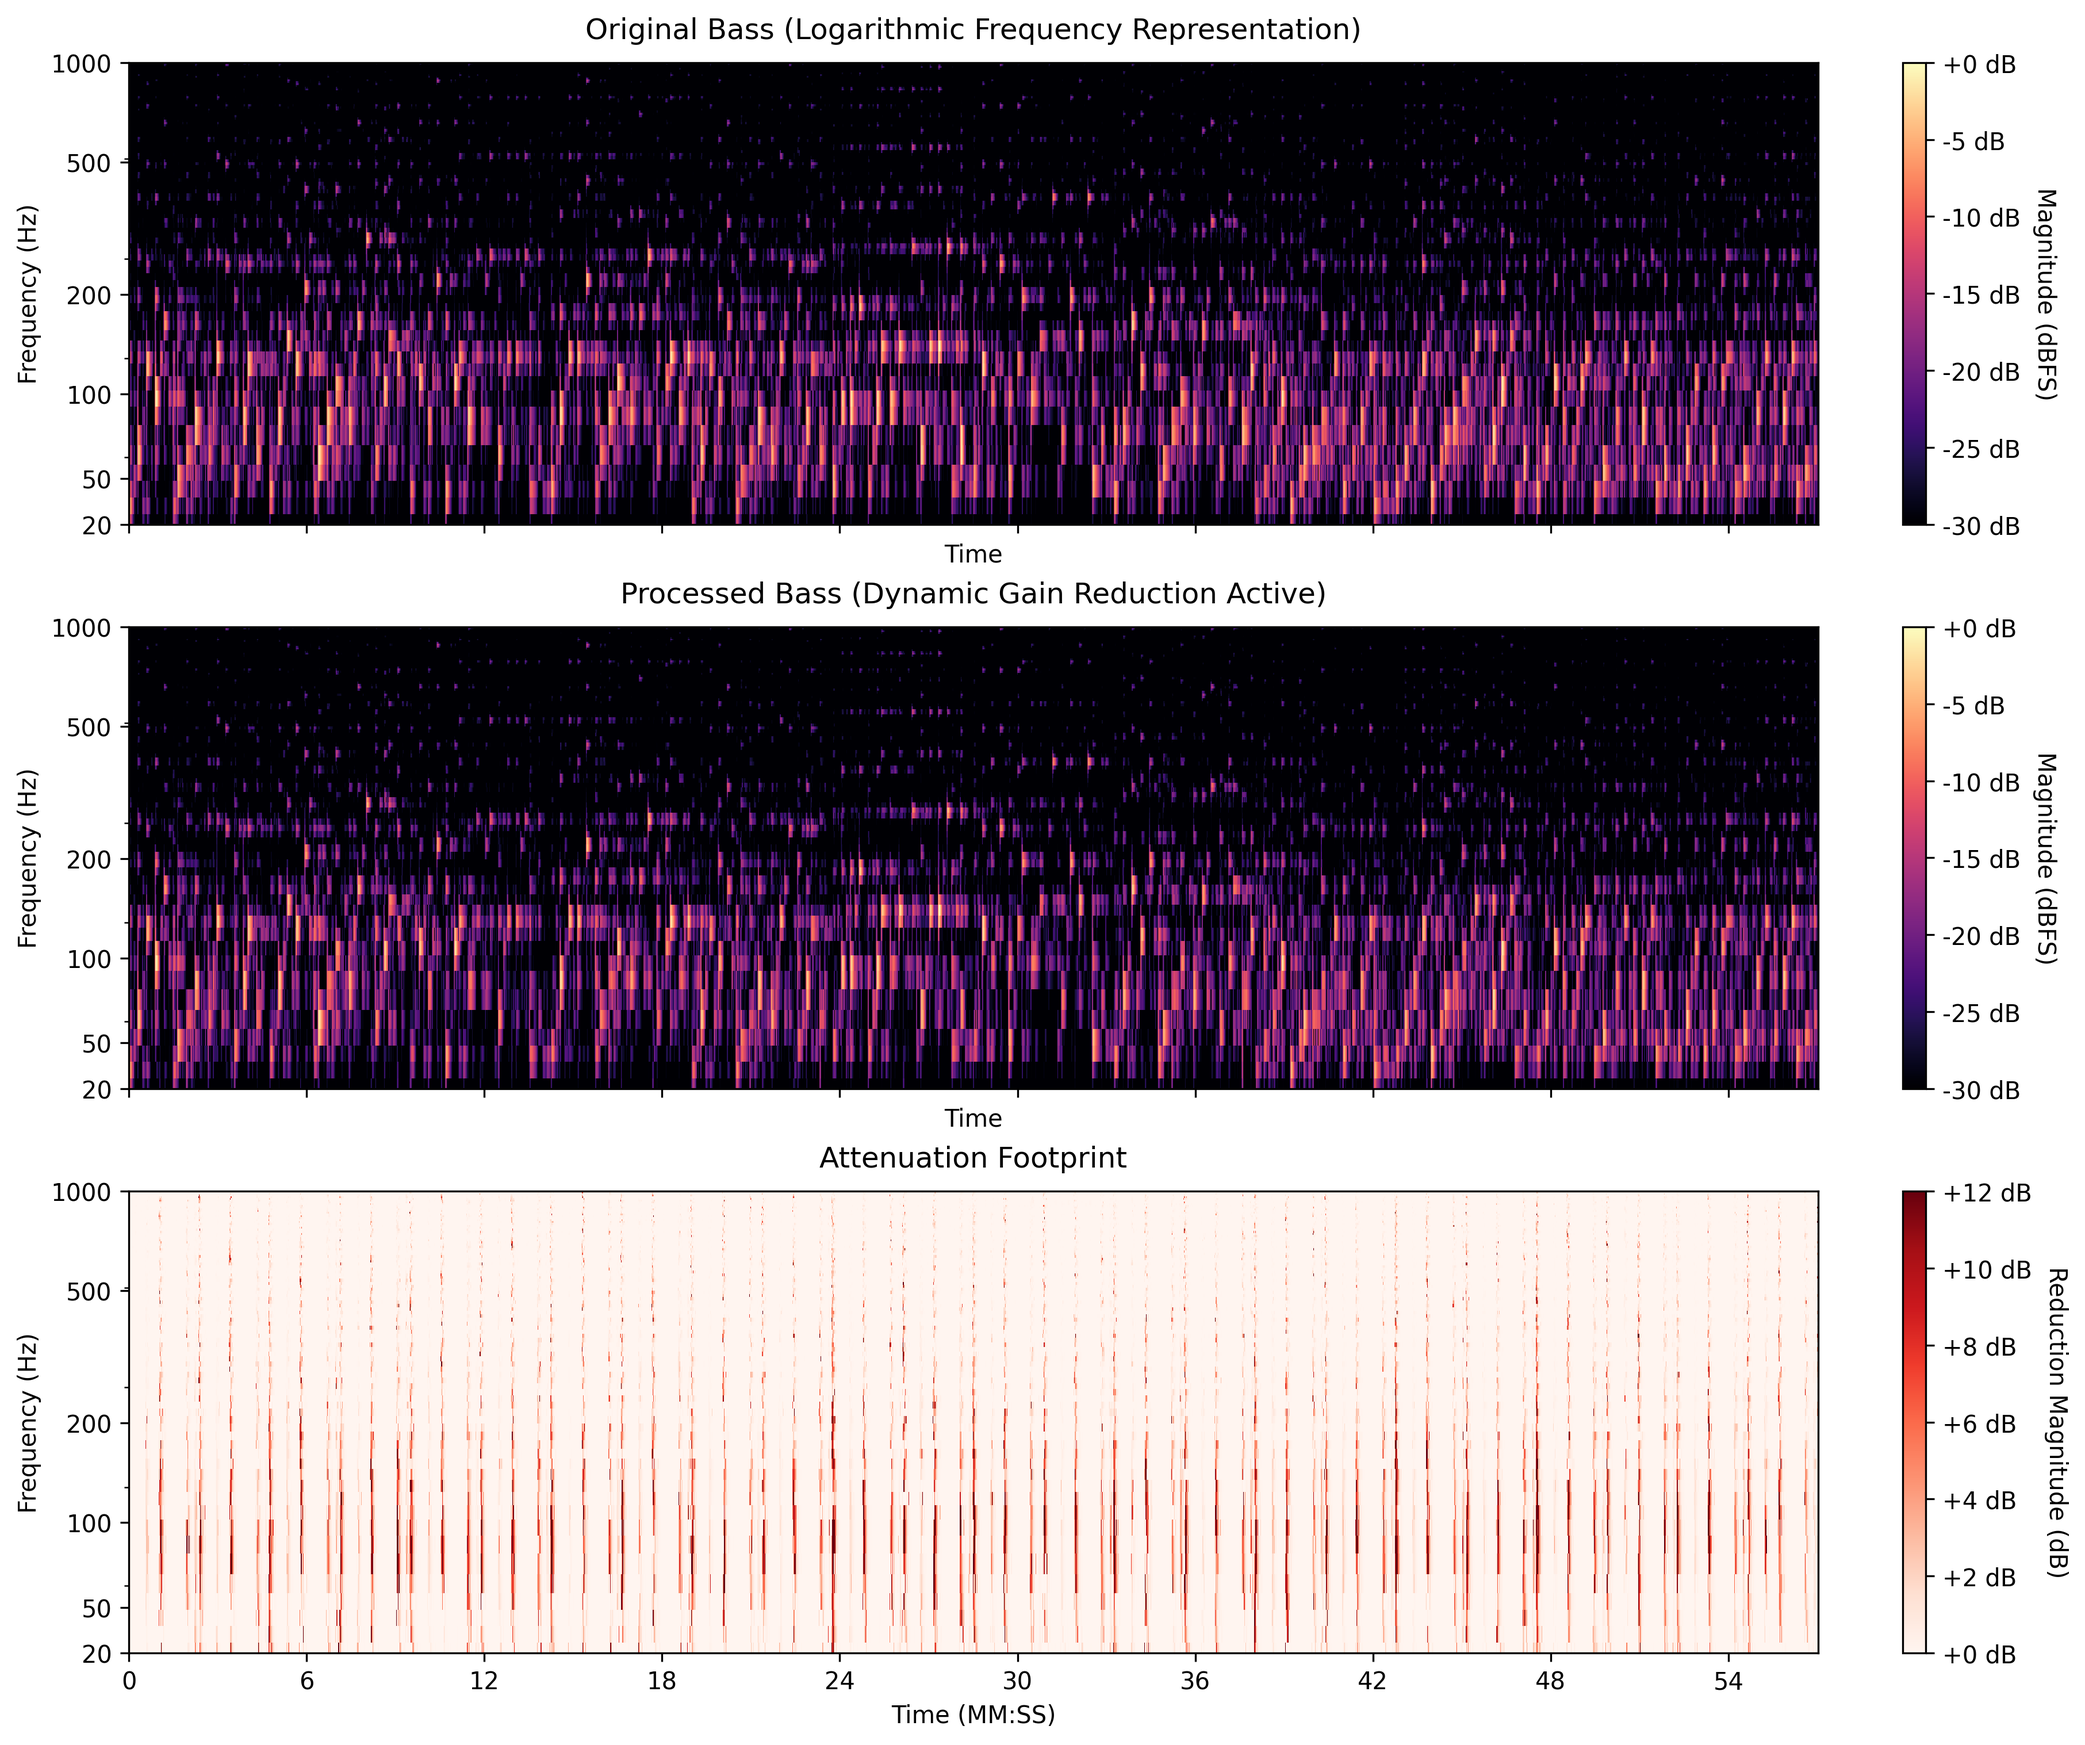
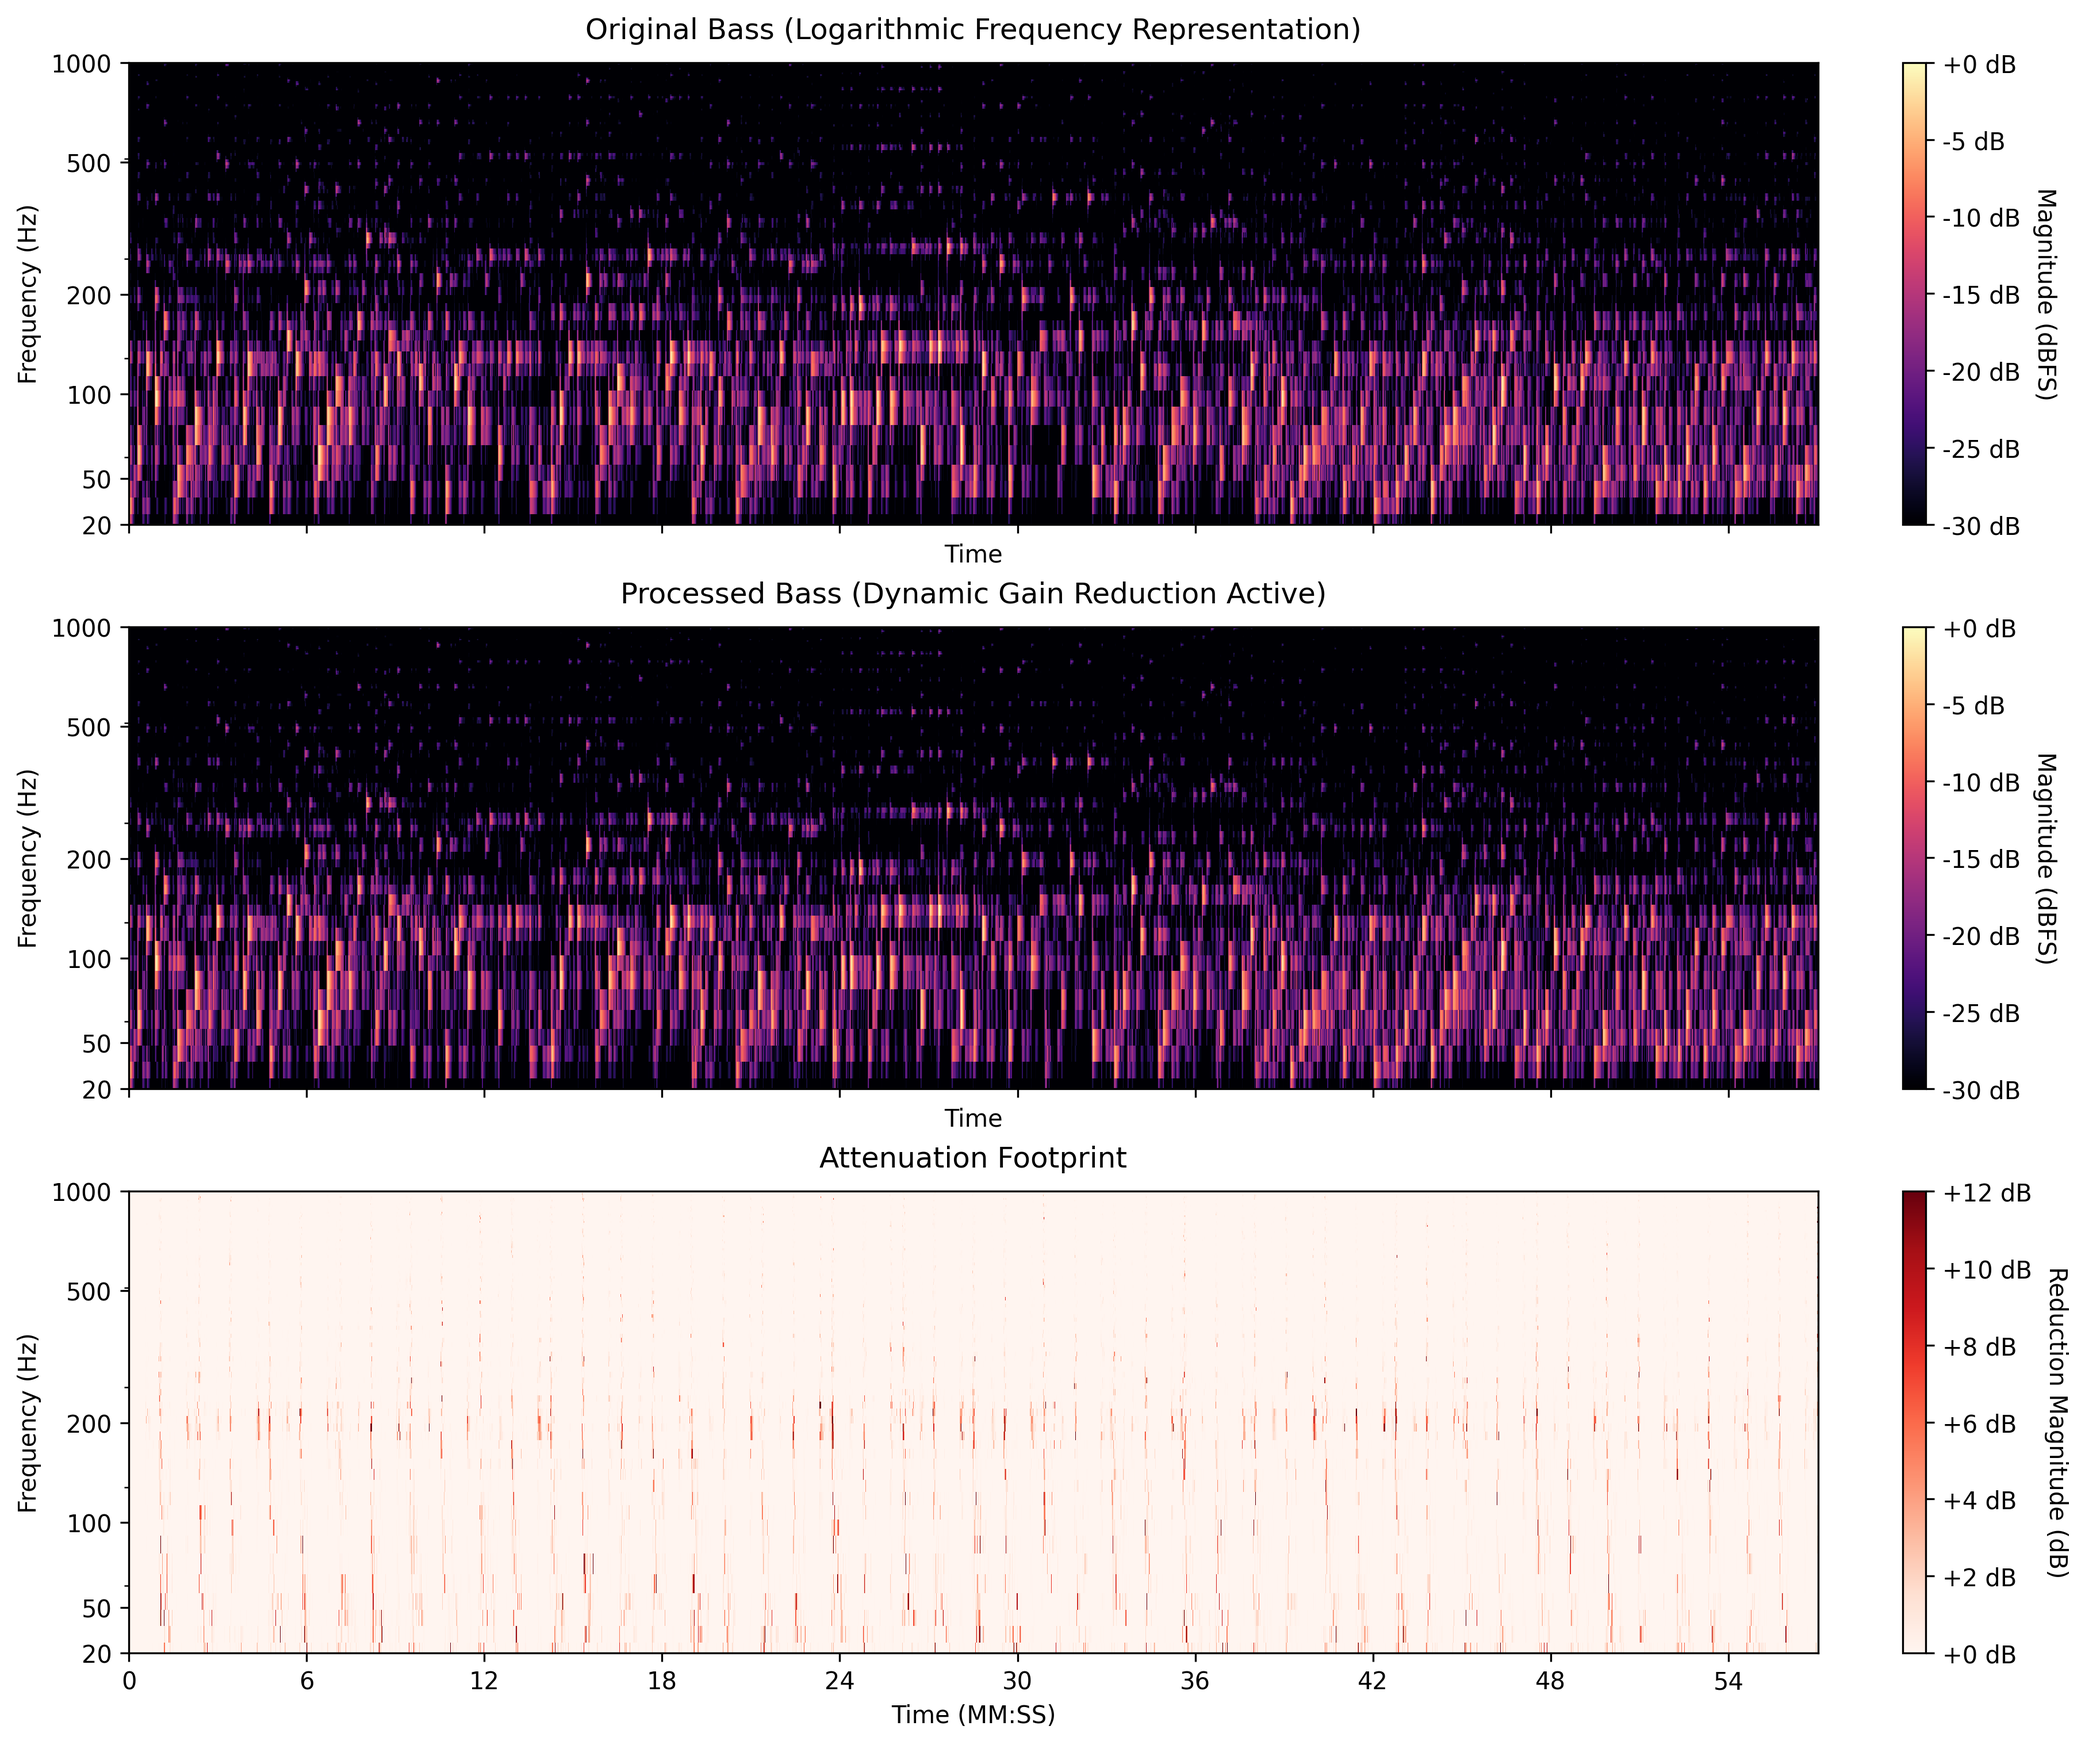
feat: implement dynamic EQ using Zero-Crossing Rate

Changed region(s): [[0.0623, 0.8055, 0.8726, 0.9604], [0.0623, 0.4957, 0.8726, 0.6196]]

diff --git a/main.py b/main.py
@@ -66,6 +66,13 @@ def process_stems(
         
         if prev_energy_db is None:
             prev_energy_db = current_db
+            
+        fc = dynamics.frequency_center(filtered_drum, config.SAMPLE_RATE)
+        dynamic_fc = np.clip(
+            fc, 
+            config.PRESET_DRUM_BASS["fc_min"], 
+            config.PRESET_DRUM_BASS["fc_max"]
+        )
         
         target_gain = dynamics.gain_reduction(
             current_db, 
@@ -81,7 +88,7 @@ def process_stems(
         
         # --- Processor Path  ---
         eq_b, eq_a = filter.target_eq_coeffs(
-            config.PRESET_DRUM_BASS["target_fc"],
+            dynamic_fc,
             config.PRESET_DRUM_BASS["target_q"],
             smoothed_gain,
             config.SAMPLE_RATE
@@ -102,6 +109,6 @@ def process_stems(
         
         if smoothed_gain < -1.0:
             timestamp = i / config.SAMPLE_RATE
-            print(f"[Time: {timestamp:.2f}s] Trigger: {current_db:.1f} dBFS | Attenuation: {smoothed_gain:.2f} dB")
+            print(f"[Time: {timestamp:.2f}s] Gain: {smoothed_gain:.1f} dB | FC: {dynamic_fc:.1f} Hz")
             
     return drum, bass, output_bass

diff --git a/dynamics.py b/dynamics.py
@@ -32,3 +32,10 @@ def smooth(target_gain: float, prev_gain: float, attack_coeff: float, release_co
         return attack_coeff * prev_gain + (1.0 - attack_coeff) * target_gain
 
     return release_coeff * prev_gain + (1.0 - release_coeff) * target_gain
+
+def frequency_center(audio_block: np.ndarray, sr: int) -> float:
+    """
+    Estimate fundamental frequency via Zero-Crossing Rate (ZCR).
+    """
+    crossings = np.count_nonzero(np.diff(np.signbit(audio_block)))
+    return (crossings / (2.0 * len(audio_block))) * sr

diff --git a/config.py b/config.py
@@ -14,11 +14,12 @@ CONTROL_RATE = SAMPLE_RATE / BLOCK_SIZE
 PRESET_DRUM_BASS = {
     "trigger_bp_low": 60.0, # Hz
     "trigger_bp_high": 120.0, # Hz
-    
-    "target_fc": 90.0, # Hz
-    "target_q": 1.4, # Q-factor (dimensionless)
-    
     "threshold": 6.0, # dBFS
+    
+    "fc_min": 40.0, # Hz
+    "fc_max": 200.0, # Hz
+    "target_q": 20, # Q-factor (dimensionless)
+    
     "ratio": 3.0, # :1 ratio
     "attack_ms": 5.0, # ms
     "release_ms": 40.0, # ms
